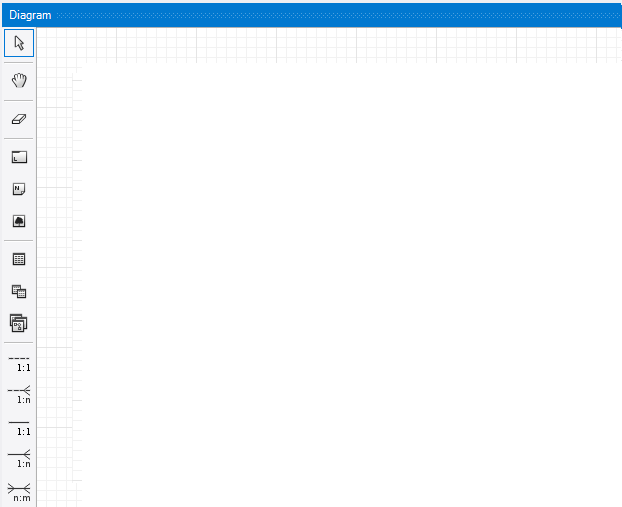
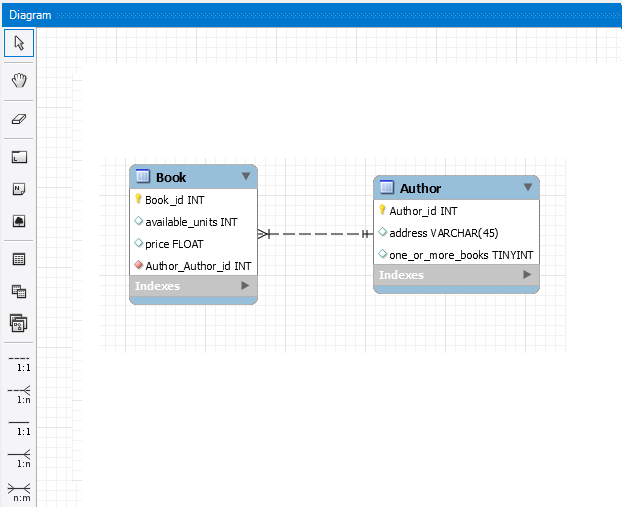
added ex. 4 and 6 and the database model

diff --git a/README.md b/README.md
@@ -1,2 +1,3 @@
 # modelatge-BBDD
-IT_Ex2 Modelatge de Bases de Dades - CibernariumIntro
+
+IT_Ex2 Modelatge de Bases de Dades
